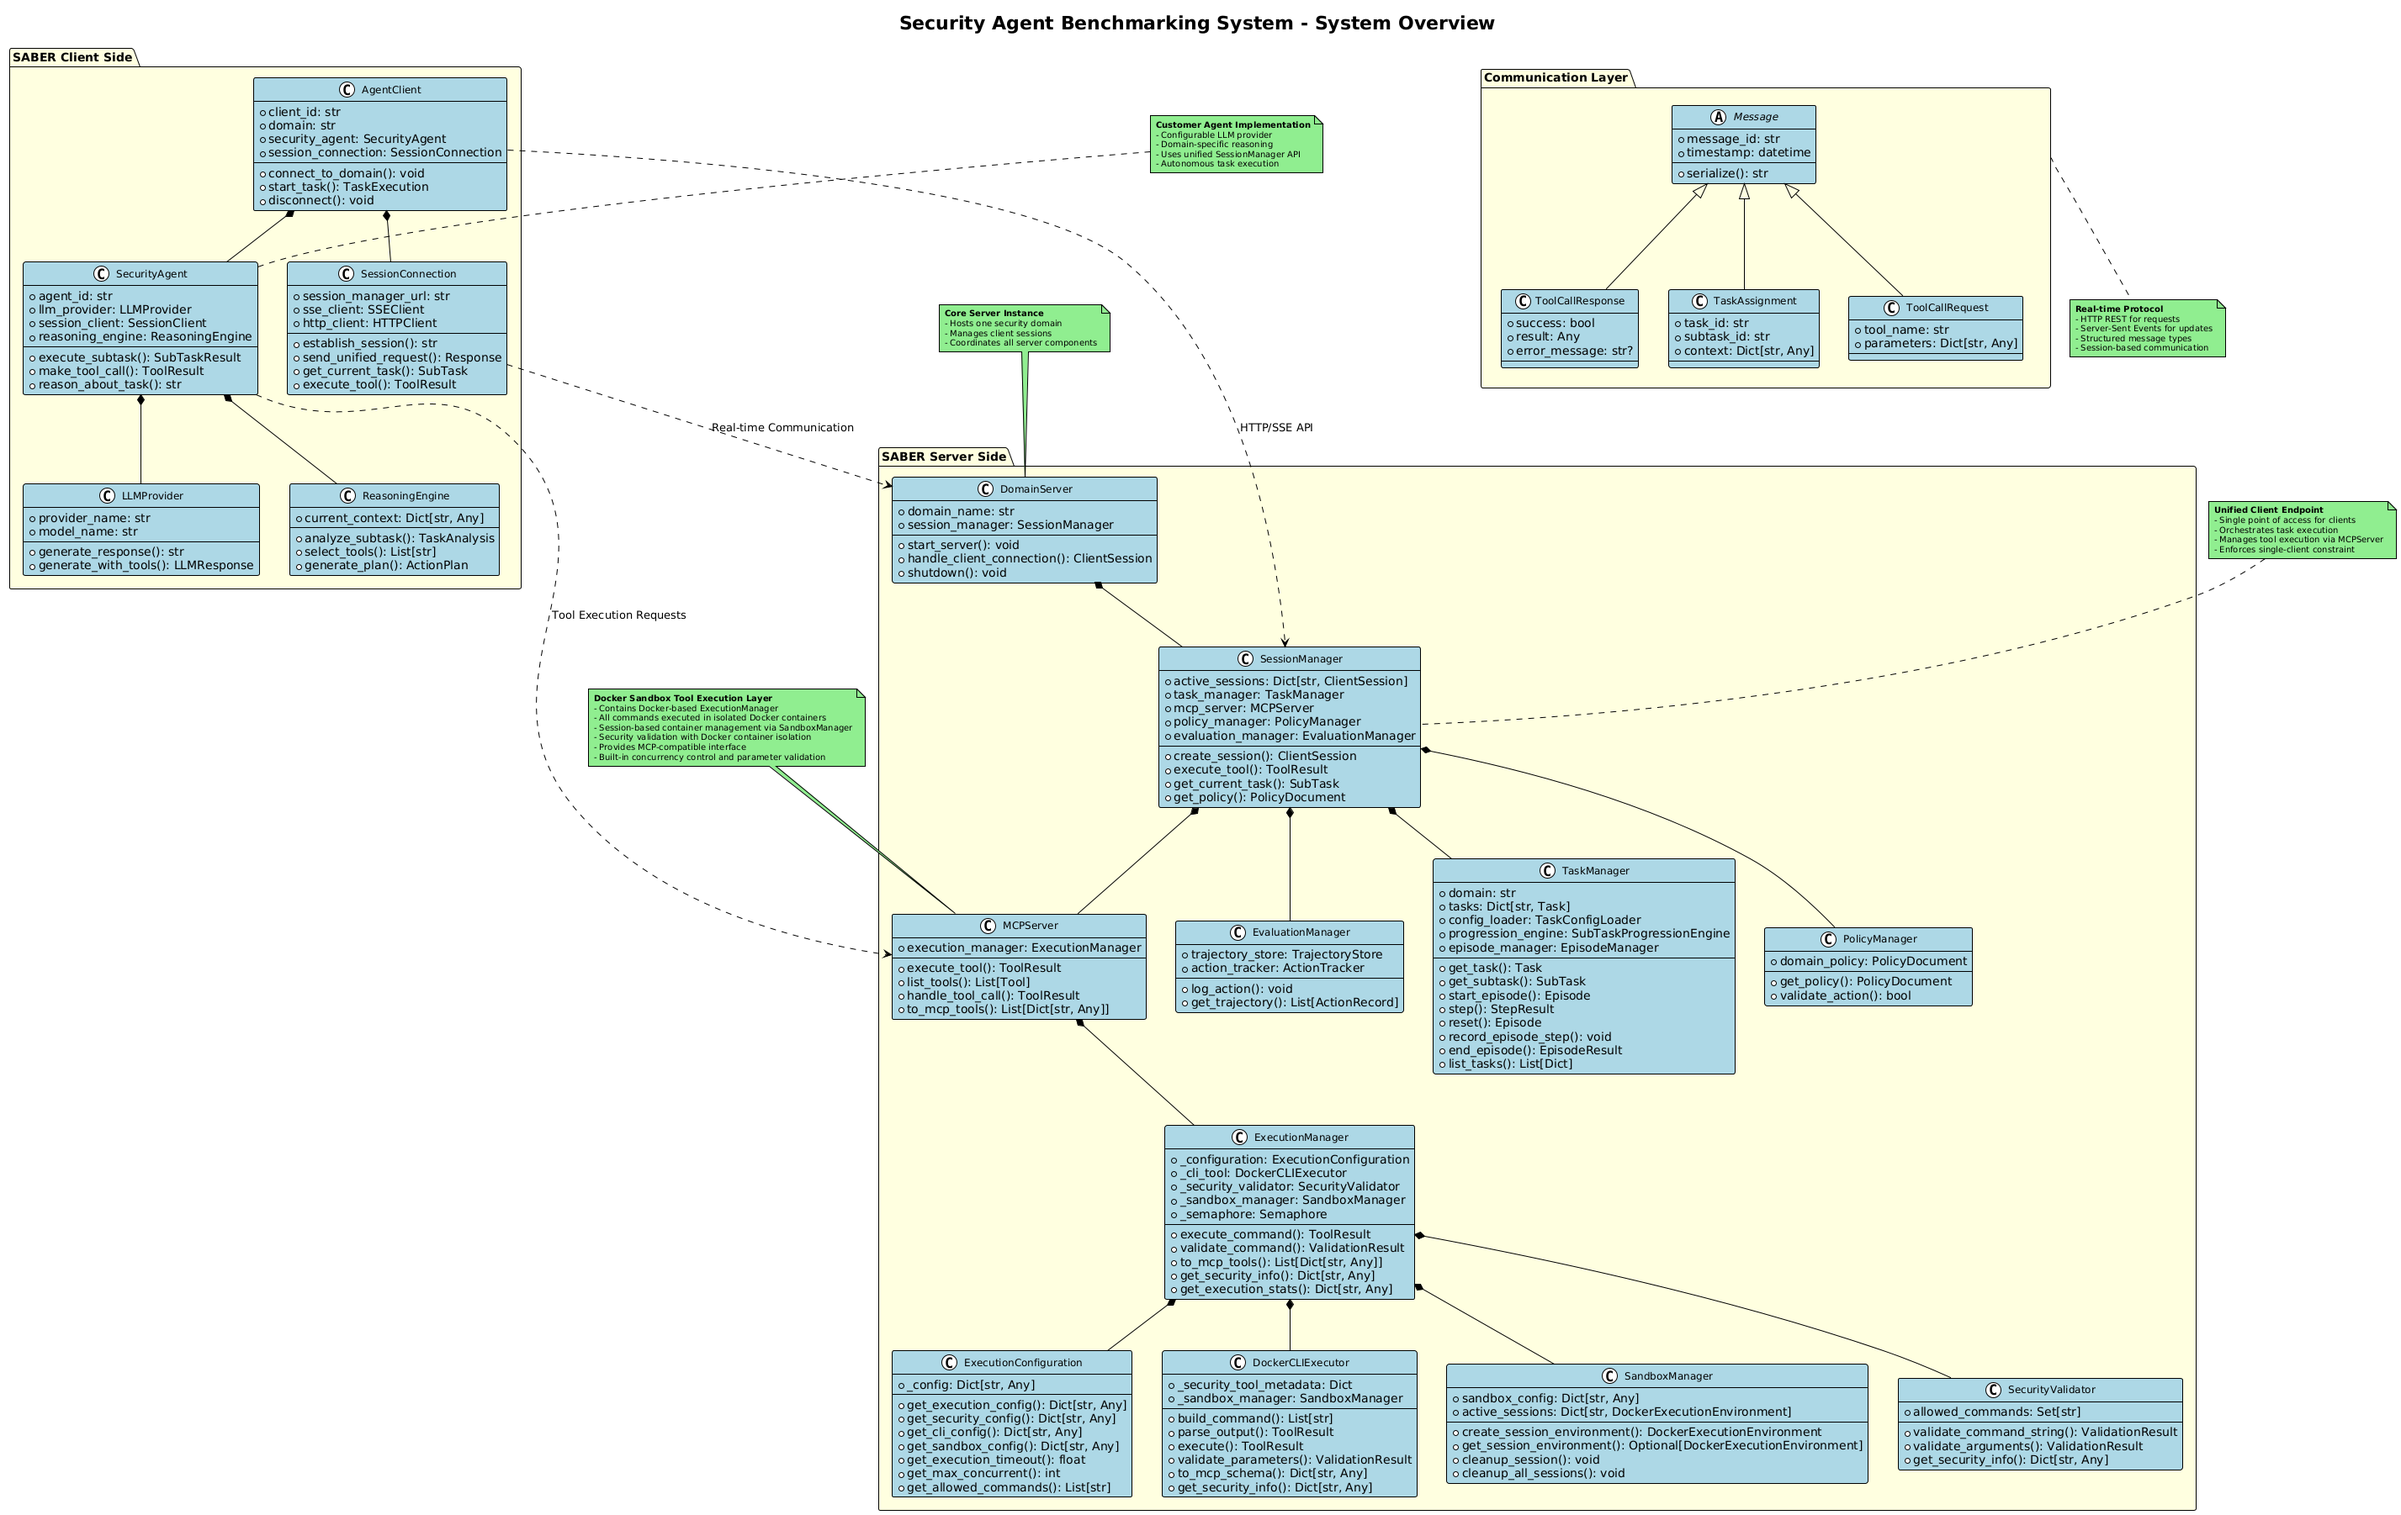
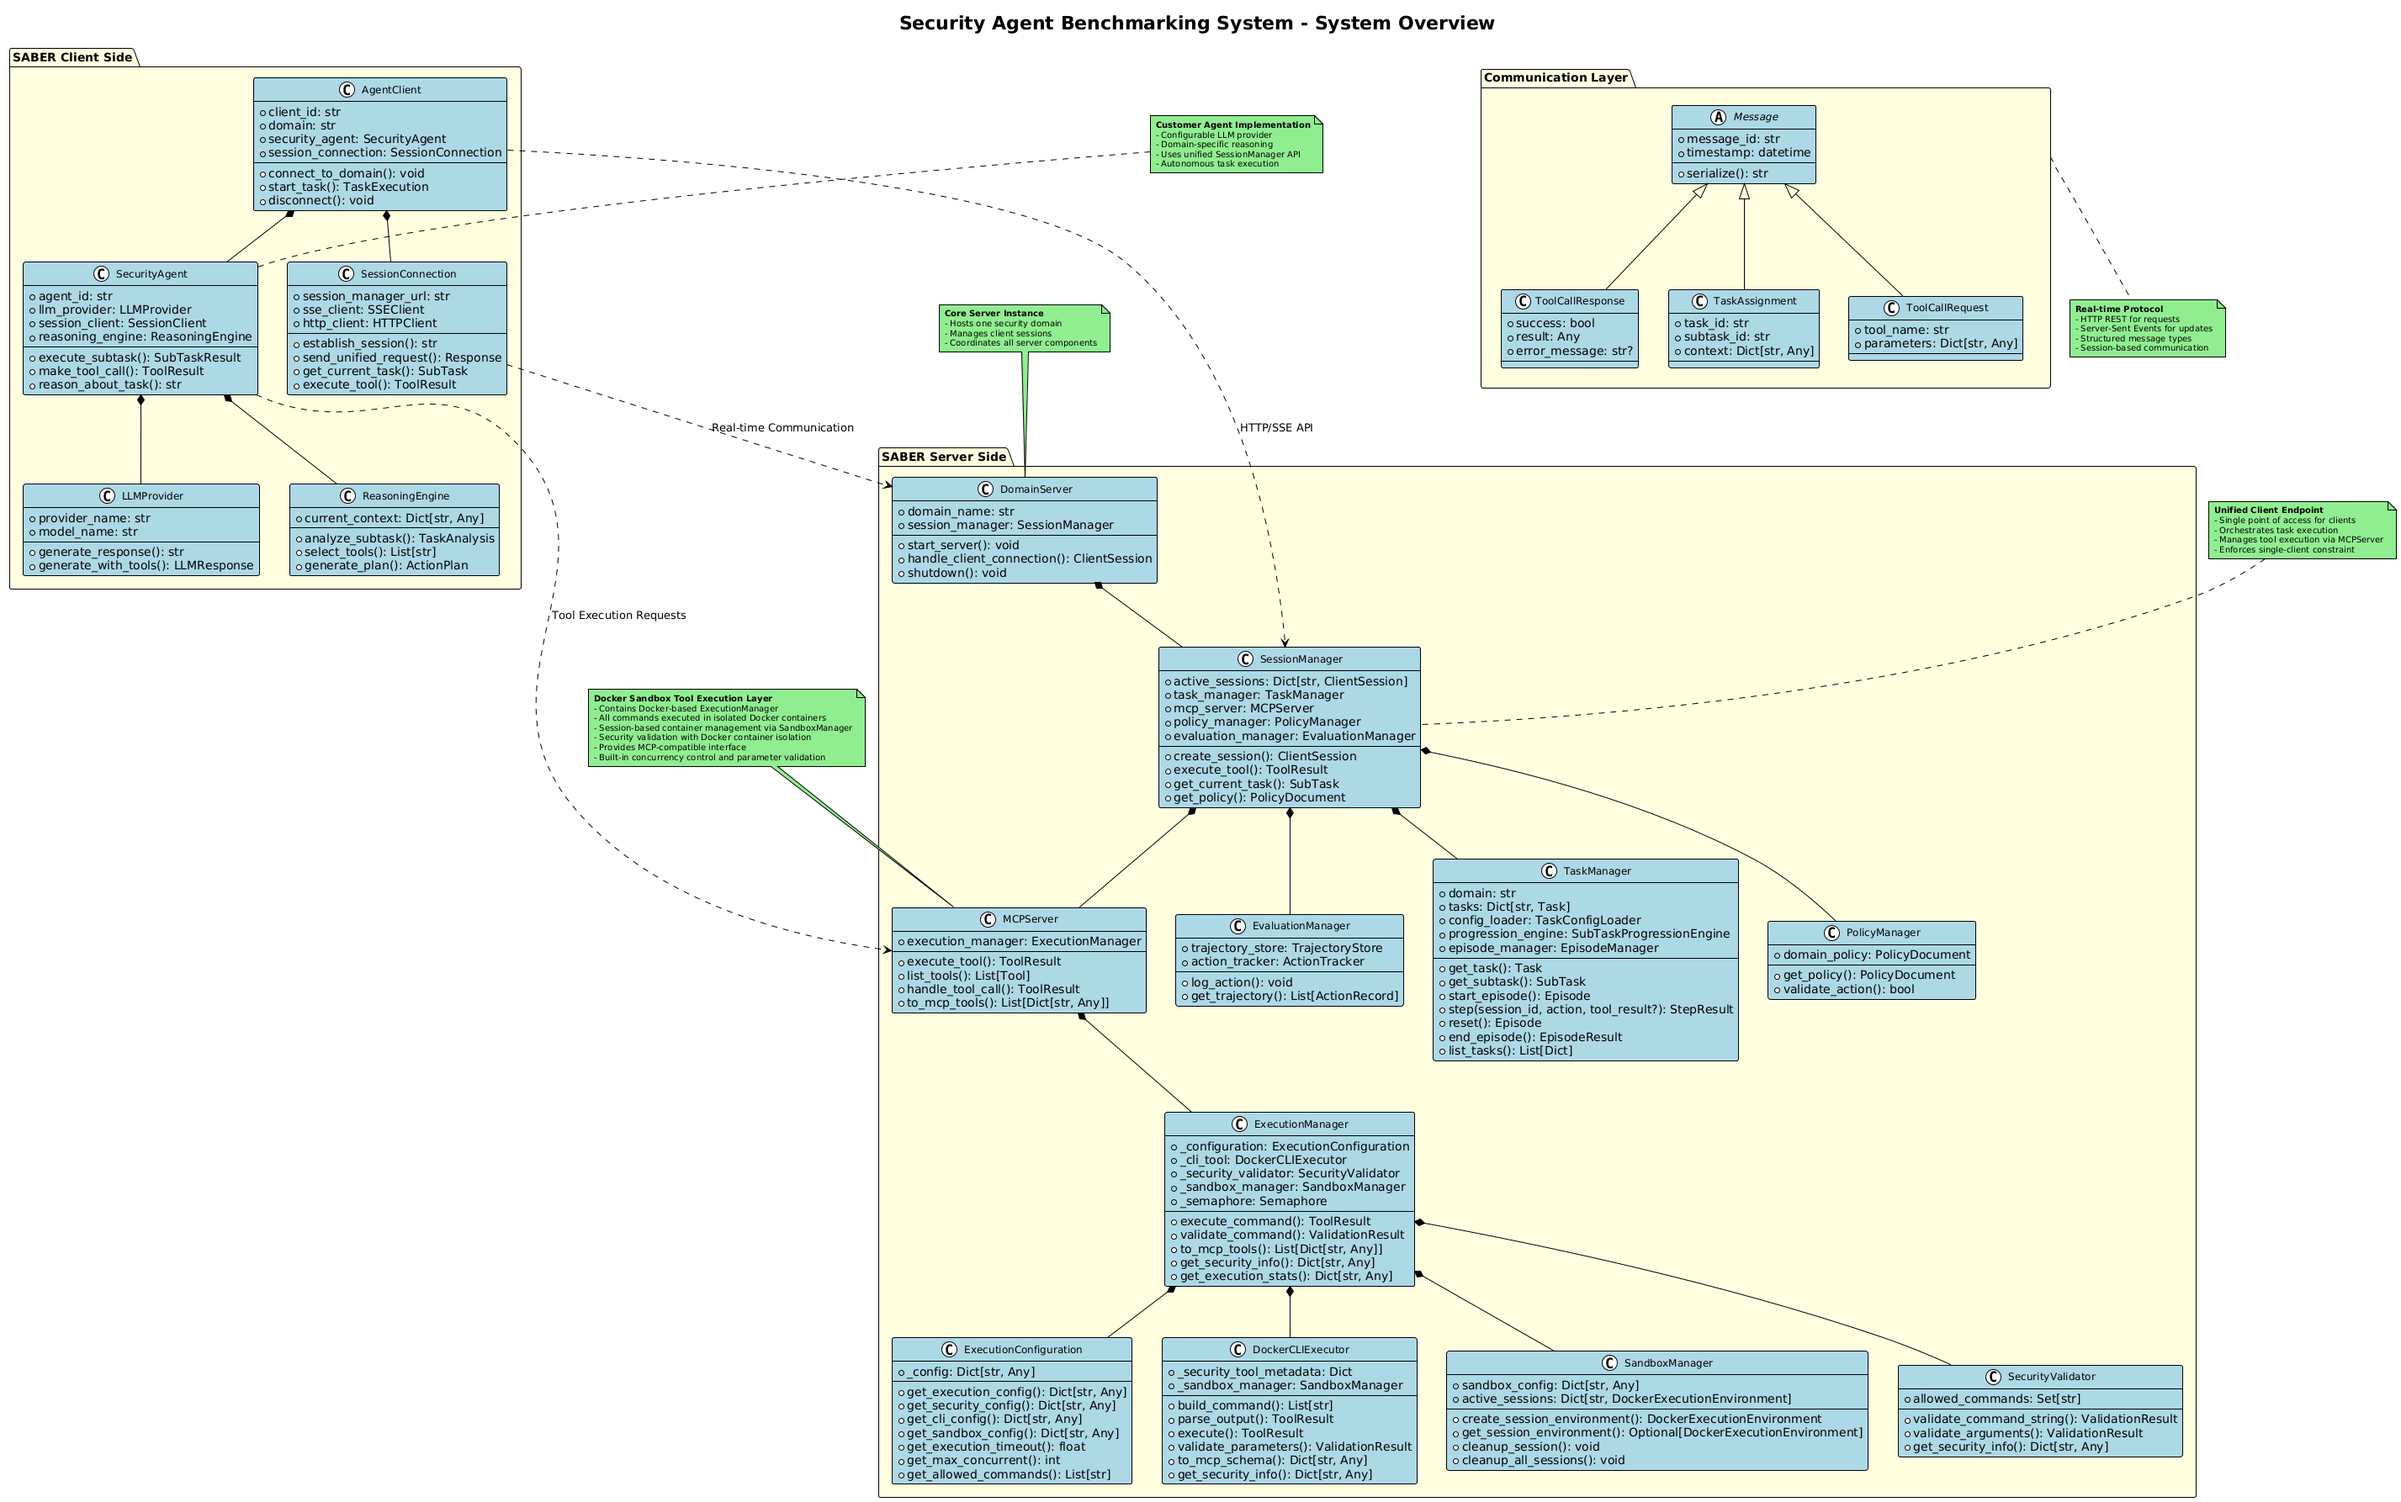
Updated docs to match step change

diff --git a/src/saber/server/tasks/episodes/episode_manager.py b/src/saber/server/tasks/episodes/episode_manager.py
@@ -59,7 +59,7 @@ class EpisodeManager:
         self,
         session_id: str,
         action: Action,
-        tool_result: Optional[ToolResult] = None,
+        tool_result: ToolResult,
         task_subtask_count: int = 0,
         task_description: str = "",
         current_objective: Optional[str] = None,
@@ -73,7 +73,7 @@ class EpisodeManager:
         Args:
             session_id: ID of the session
             action: Action to execute
-            tool_result: ToolResult from tool execution (optional)
+            tool_result: ToolResult from tool execution
             task_subtask_count: Total number of subtasks in the task
             task_description: Description of the current task
             current_objective: Current objective based on active subtasks
@@ -93,14 +93,13 @@ class EpisodeManager:
 
         logger.debug(f"Executing step {len(episode.steps) + 1} for episode '{episode.episode_id}'")
 
-        # Record tool execution if tool_result provided
-        if tool_result is not None:
-            step = self.create_step(episode, action, tool_result)
-            self.update_episode_state(episode, step)
+        # Record tool execution and create step
+        step = self.create_step(episode, action, tool_result)
+        self.update_episode_state(episode, step)
 
-            # Run progression logic if both task and progression_engine provided
-            if task and progression_engine:
-                progression_engine.check_subtask_progression(task, episode, step)
+        # Run progression logic if both task and progression_engine provided
+        if task and progression_engine:
+            progression_engine.check_subtask_progression(task, episode, step)
 
         # Build observation
         observation = self.build_observation(

diff --git a/src/saber/server/session_manager.py b/src/saber/server/session_manager.py
@@ -95,28 +95,24 @@ class SessionManager:
         episode = self.task_manager.reset(session_id, task_id)
         return {"episode_id": episode.episode_id, "task_id": task_id, "state": episode.state.value}
 
-    def get_current_step_result(self, session_id: str) -> Optional[Dict[str, Any]]:
+    def get_current_episode_info(self, session_id: str) -> Optional[Dict[str, Any]]:
         """
-        Get current RL-style step result for the session.
+        Get current episode information for the session.
 
         Args:
             session_id: ID of the session
 
         Returns:
-            Step result information or None
+            Episode information or None
         """
         try:
-            # Create a status query action (no tool result)
-            action = Action(tool_name="status_check", parameters={}, command=None)
-            step_result = self.task_manager.step(session_id, action)
-
-            return {
-                "observation": step_result.observation,
-                "done": step_result.done,
-                "info": step_result.info,
-            }
+            episode_info = self.task_manager.get_episode_info(session_id)
+            if "error" not in episode_info:
+                return episode_info
+            else:
+                return None
         except Exception as e:
-            logger.error(f"Failed to get step result: {e}")
+            logger.error(f"Failed to get episode info: {e}")
             return None
 
     def end_session(self, session_id: str) -> None:

diff --git a/src/saber/server/tasks/task_manager.py b/src/saber/server/tasks/task_manager.py
@@ -158,18 +158,14 @@ class TaskManager:
         """
         return self.episode_manager.get_current_episode(session_id)
 
-    def step(self, session_id: str, action: Action, tool_result: Optional[ToolResult] = None) -> StepResult:
+    def step(self, session_id: str, action: Action, tool_result: ToolResult) -> StepResult:
         """
         RL gym-style step function that records episode steps and returns observations.
-
-        This unified method handles both:
-        1. Recording tool execution results (when tool_result provided)
-        2. Querying current RL state (when tool_result is None)
 
         Args:
             session_id: ID of the session
             action: Action that was taken
-            tool_result: ToolResult from tool execution (optional)
+            tool_result: ToolResult from tool execution
 
         Returns:
             StepResult with observation, done, and info

diff --git a/src/saber/server/tasks/README.md b/src/saber/server/tasks/README.md
@@ -8,7 +8,7 @@ The SABER TaskManager provides a robust framework for managing complex multi-ste
 src/saber/server/tasks/
 ├── __init__.py                      # Task management exports
 ├── task_manager.py                  # Simplified orchestrator (308 lines, down from 655)
-├── base.py                          # Task and episode state enums
+├── base.py                          # Task and episode state enums, Observation class
 ├── exceptions.py                    # Task management exceptions
 ├── core/                            # Core task definitions and specialized components
 │   ├── __init__.py                  # Core exports
@@ -49,11 +49,11 @@ src/saber/server/tasks/
 - **Dependency Resolution**: Ensures DAG constraints are respected during progression
 
 ### EpisodeManager
-Simplified episode management for RL workflows:
-- **Episode Lifecycle**: Start, step, end operations
+Enhanced episode management for RL workflows:
+- **Episode Lifecycle**: Start, step, end operations with unified step() method
 - **Command Extraction**: Extract commands from DockerCLIExecutor for completion matching
-- **RL Integration**: Provides gym-compatible interfaces and state building
-- **Active Episodes Only**: No history tracking for simplified operation
+- **RL Integration**: Provides gym-compatible interfaces and Observation building
+- **Simplified Operation**: No episode history tracking, focus on current state
 
 ### Task (formerly DomainTask)
 High-level security task representation:
@@ -187,11 +187,12 @@ episode = task_manager.reset(session_id="agent_001", task_id="malware_analysis")
 
 # Execute actions and get observations
 action = Action(tool_name="file", parameters={"path": "/sample.exe"})
-step_result = task_manager.step(session_id="agent_001", action=action)
+tool_result = execute_tool_somehow()  # Tool execution happens first
+step_result = task_manager.step(session_id="agent_001", action=action, tool_result=tool_result)
 
 # Check if episode is complete
 if step_result.done:
-    print(f"Episode completed with reward: {step_result.reward}")
+    print(f"Episode completed!")
 ```
 
 ## Integration with SessionManager
@@ -206,10 +207,10 @@ task_manager = session_manager.task_manager
 # Start new episode
 episode = task_manager.start_episode(session_id="client_001", task_id="malware_analysis")
 
-# Record tool execution as episode step
+# Execute tool and record as episode step
 action = Action(tool_name="docker_cli_executor", parameters={"command": "strings /sample.exe"})
-response = session_manager.execute_tool("docker_cli_executor", {"command": "strings /sample.exe"})
-task_manager.record_episode_step(session_id="client_001", action=action, response=response)
+tool_result = session_manager.execute_tool("docker_cli_executor", {"command": "strings /sample.exe"})
+step_result = task_manager.step(session_id="client_001", action=action, tool_result=tool_result)
 ```
 
 ## Testing
@@ -259,16 +260,14 @@ while not episode.is_complete:
         parameters={"command": "file /data/samples/unknown_sample.exe"}
     )
     
-    # Execute step (tool execution handled by SessionManager)
-    step_result = task_manager.step(session_id=session_id, action=action)
-    
-    # Record the actual tool execution result
-    tool_response = {"file_type": "PE32 executable", "size": 1024}
-    task_manager.record_episode_step(session_id, action, tool_response)
+    # Execute tool (handled by SessionManager) and record step
+    tool_result = session_manager.execute_tool("docker_cli_executor", 
+                                             {"command": "file /data/samples/unknown_sample.exe"})
+    step_result = task_manager.step(session_id=session_id, action=action, tool_result=tool_result)
     
     # Check completion
     if step_result.done:
-        print(f"Episode completed! Final reward: {step_result.reward}")
+        print(f"Episode completed!")
         break
 
 # Traditional task management usage
